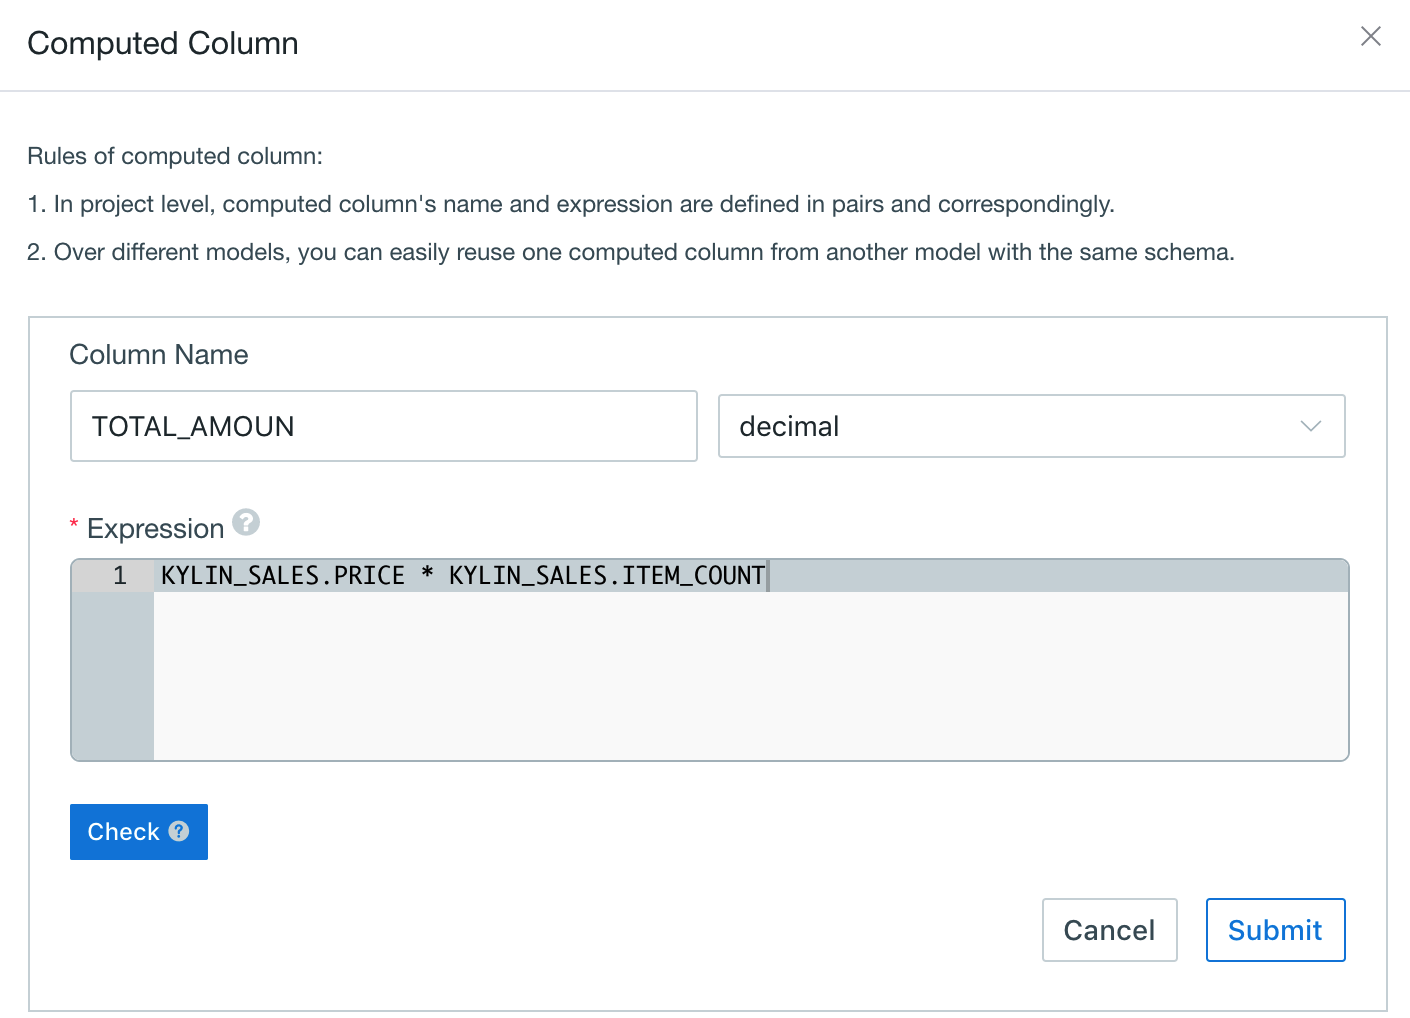
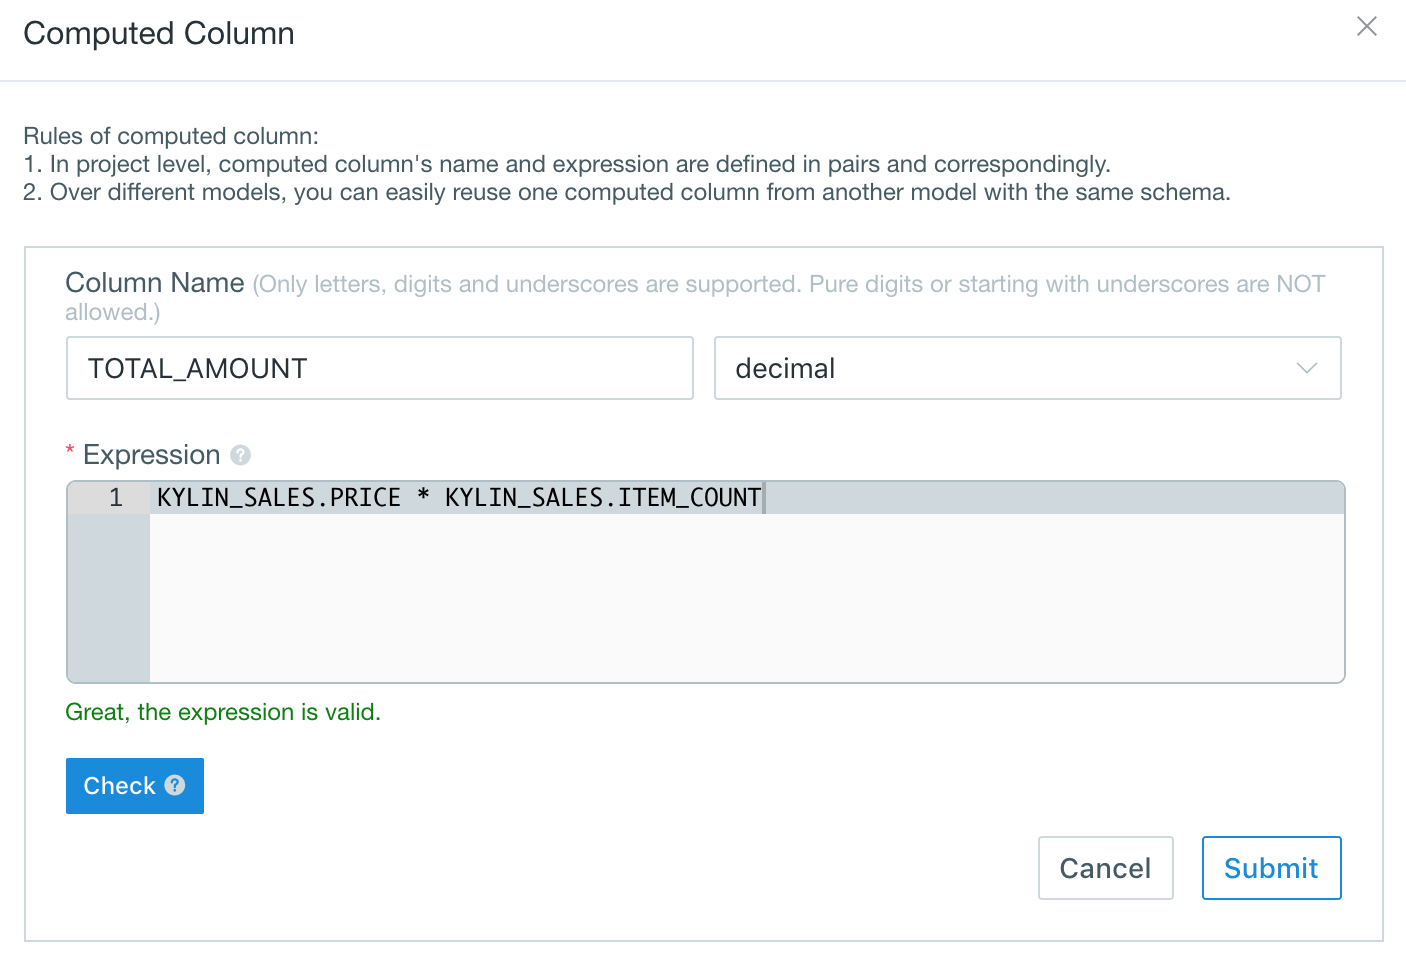
nesting computed column example (#525)
* nesting computed column example

* Update overview.en.md

* Update overview.en.md

* Update overview.cn.md

* replace example

diff --git a/en/model/computed_column/overview.en.md b/en/model/computed_column/overview.en.md
@@ -1,24 +1,24 @@
 ## Computed Column
 
-*Computed Column* allows you to pre-define actions like data extraction / transformation / redefinition in modes, it enhances the data semantic abstraction. By replacing runtime calculation with offline cube construction, the pre-calculation capability of Kyligence Enterprise is fully utilized. As a result, query performance could be improved significantly. It's allowed to use Hive UDF in computed columns, so that existing business codes can be reused.
+**Computed Column** allows you to pre-define actions like data transformation and calculation in models, it enhances the data semantic abstraction according to various business scenarios. By replacing runtime calculation with offline cube construction, the pre-calculation capability of Kyligence Enterprise is fully utilized. As a result, query performance could be improved significantly. It's allowed to use Hive UDF in computed columns, so that existing business codes can be reused.
 
-> Caution: 
->   - Computed column is **ONLY** suppoted when the data source is Hive.
+> **Caution:**
+>   - Computed column is **ONLY** supported when the data source is Hive.
 >   - Please **DO NOT** define an expression with only constants for a computed column.
 
 ### Basic Concepts and Guidelines
-- Naming convention:
+- **Naming convention:**
   - Only letters, digits and underscores are supported. Pure digits or starting with underscores are NOT allowed.
-  - Under one project, the name of a computed column cannot duplicate with any other columns in current model.
-- Expression: calculating logic. Expression of computed column can contain columns across a fact table and a lookup table.
-- Re-use and reference:
-  - In a project, a computed column can be re-used accross different models. So its name and expression should be unique.
-  - In a new data model, you can re-use computed columns which is already defined in another model on the same table. 
+  - Under one project, the name of a computed column cannot duplicate with any other columns in the current model.
+- **Expression:** calculating logic. Expression of the computed column can contain columns across a fact table and a lookup table.
+- **Re-use and reference:**
+  - In a project, a computed column can be reused across different models. So its name and expression should be unique.
+  - In a new data model, you can re-use computed columns which are already defined in another model on the same table. 
   - You can define a new computed column based on an existing computed column.
-- Others:
-  - It's highly recommended to define computed column only on fact table, although you can define computed column on lookup tables which are not stored as snapshot.
+- **Others:**
+  - It's highly recommended to define computed column only on the fact table, although you can define computed column on lookup tables which are not stored as snapshots.
   - You can define different computed columns in different models with following the guideline above.
-  - Access control：If a user has restricted access to the column used in the expression of a computed column, then this user will not be able to query the computed column either. 
+  - Access control: If a user has restricted access to the column used in the expression of a computed column, then this user will not be able to query the computed column either. 
 
 ### Create Computed Column
 
@@ -37,7 +37,7 @@ The following information is required:
 ![](images/computed_column.en.png)
 
 - **Column**: Display the name of the created computed column.
-- **Expression**: Definition of the computed column. Columns in the expression can refer to any table in current model, however you have to make sure the column reference complies to **Table.Column**.
+- **Expression**: Definition of the computed column. Columns in the expression can refer to any table in the current model, however, you have to make sure the column reference complies to **Table.Column**.
 - **Data Type**: The data type of the created column.
 
 After successfully submitting and saving the computed column, you will see the new column `total_amount` appearing in the table:
@@ -62,11 +62,23 @@ When **query pushdown** is enabled and there is no cube can be hit on for your q
 
 **Explicit Query**: If you created and built a cube containing measure `sum(total_amount)`, Kyligence Enterprise can answer queries like `select sum(total_amount) from kylin_sales`. We call it **Explicit Query** on computed columns. 
 
-**Implicit Query:** your can pretend that computed column is invisible from the table, and still use the expression behind the computed column to query. Continuing with the last example, when your query `select sum(price * item_count) from kylin_sales`, Kyligence Enterprise will analyze the query and figure out that expression in `price * item_count` is replaceable by an existing computed column named `total_amount`. For better performance Kyligence Enterprise will try to translate your original query to `select sum(total_amount) from kylin_sales`. We call it **Implicit Query** on computed columns.
+**Implicit Query:** You can pretend that computed column is invisible from the table, and still use the expression behind the computed column to query. Continuing with the last example, when your query `select sum(price * item_count) from kylin_sales`, Kyligence Enterprise will analyze the query and figure out that expression in `price * item_count` is replaceable by an existing computed column named `total_amount`. For better performance, Kyligence Enterprise will try to translate your original query to `select sum(total_amount) from kylin_sales`. We call it **Implicit Query** on computed columns.
 
 Implicit Query is **enabled** by default. To disable it you'll need to remove `kylin.query.transformers=io.kyligence.kap.query.util.ConvertToComputedColumn` in `KYLIN_HOME/conf/kylin.properties`
 
+### Nested Computed Columns
 
+You can define a new computed column based on an existing computed column, and this is called nested computed column. 
+
+1. Define a computed column named *TOTAL_AMOUNT*, click **Submit**
+
+![](images/computed_column.en.png)
+
+2. Define a computed column named *DOUBLE_TOTAL_AMOUNT*, and refer to *TOTAL_AMOUNT* in the expression.
+
+![](images/nest_computed_column_en.png)
+
+Click **Check** to validate the expression.
 
 ### Advanced Functions
 

diff --git a/zh-hans/model/computed_column/overview.cn.md b/zh-hans/model/computed_column/overview.cn.md
@@ -2,20 +2,20 @@
 
 **可计算列**支持将数据的抽取／转换／重定义等操作预先定义在模型中，增强数据语义层，将查询中的在线计算转换为预计算。充分利用了本产品的预计算能力，进一步提升查询性能。可计算列可以支持 Hive UDF，从而重用已有业务代码。
 
-> 注意：
+> **注意：**
 >   - 可计算列仅支持 Hive 数据源。
 >   - 请勿在可计算列中使用仅包含常量的表达式，以免查询出错。
 
 ### 基本概念与使用方法
-- 命名：
+- **命名：**
   - 支持字母、数字和下划线，不支持纯数字或者以下划线开头的命名。
   - 一个项目中，可计算列的名字不允许和源表上已有的列名重复。
-- 表达式：指可计算列的计算逻辑。可计算列的表达式可以包含不同表上的列，包括事实表和维度表。
-- 复用与嵌套：
+- **表达式：**指可计算列的计算逻辑。可计算列的表达式可以包含不同表上的列，包括事实表和维度表。
+- **复用与嵌套：**
   - 同一个项目下，可计算列是可以在不同模型上复用的。因此可计算列的名字和表达式需要一一对应，即同样名字与表达式的可计算列，在一个项目中只能被定义一次，但可以多次引用。
   - 在新模型中，可以复用其他模型已有的可计算列，但可计算列所在的表的位置需要一致。
   - 可计算列的表达式里，可以嵌套其它可计算列。
-- 其他注意事项：
+- **其他注意事项：**
   - 建议您将可计算列定义在事实表上，在一些特殊情况下，也支持定义在非 snapshot 存储的维度表。
   - 在不同模型中，可以定义不同的可计算列，同时也要遵循上述复用的原则。
   - 权限：如果用户在某列上的列级权限受到限制，该列被用来包含在某可计算列中，则该用户也不能查询这个可计算列。
@@ -26,9 +26,9 @@
 
 例如，模型中有一个事实表`kylin_sales`，包含以下列：
 
-- `price` (交易的单价)，
-- `item_count`（交易数量）
-- `part_dt` （交易时间）
+- `price` - 交易的单价
+- `item_count` - 交易数量
+- `part_dt` - 交易时间
 
 您可以在这张事实表上定义两个可计算列：
 
@@ -56,8 +56,6 @@
 此外，在模型中定义完可计算列后，需要在创建 Cube 添加维度/度量的时候选入可计算列。可计算列被预计算后，才能体现性能优势。
 
 ![](images/computed_column_cn.3.png)
-
-
 
 ### 可计算列查询
 
@@ -115,11 +113,21 @@ select sum(price * item_count) from kylin_sales。
 
 我们将这种查询方式成为可计算列的**隐式查询**
 
-> 提示：隐式查询默认**开启**状态，如果要关闭它，可以全局配置文件`KYLIN_HOME/conf/kylin.properties`中
->
-> 移除参数：`kylin.query.transformers=io.kyligence.kap.query.util.ConvertToComputedColumn` 
+> **提示：**隐式查询默认**开启**状态，如果要关闭它，可以全局配置文件`KYLIN_HOME/conf/kylin.properties`中移除参数 `kylin.query.transformers=io.kyligence.kap.query.util.ConvertToComputedColumn` 
 
+### 嵌套可计算列
 
+可计算列的表达式里，可以嵌套其它可计算列。嵌套时支持的表达式规范，与可计算列支持的表达式规范一致。
+
+1. 定义一个可计算列 *TOTAL_AMOUNT*，点击**提交**。
+
+![](images/computed_column_define.png)
+
+2. 定义可计算列 *DOUBLE_TOTAL_AMOUNT*，并在表达式中引用第一个可计算列。
+
+![](images/nest_computed_column.png)
+
+点击**验证**检查嵌套表达式，表达式是有效的。
 
 ### 高级函数的使用
 
